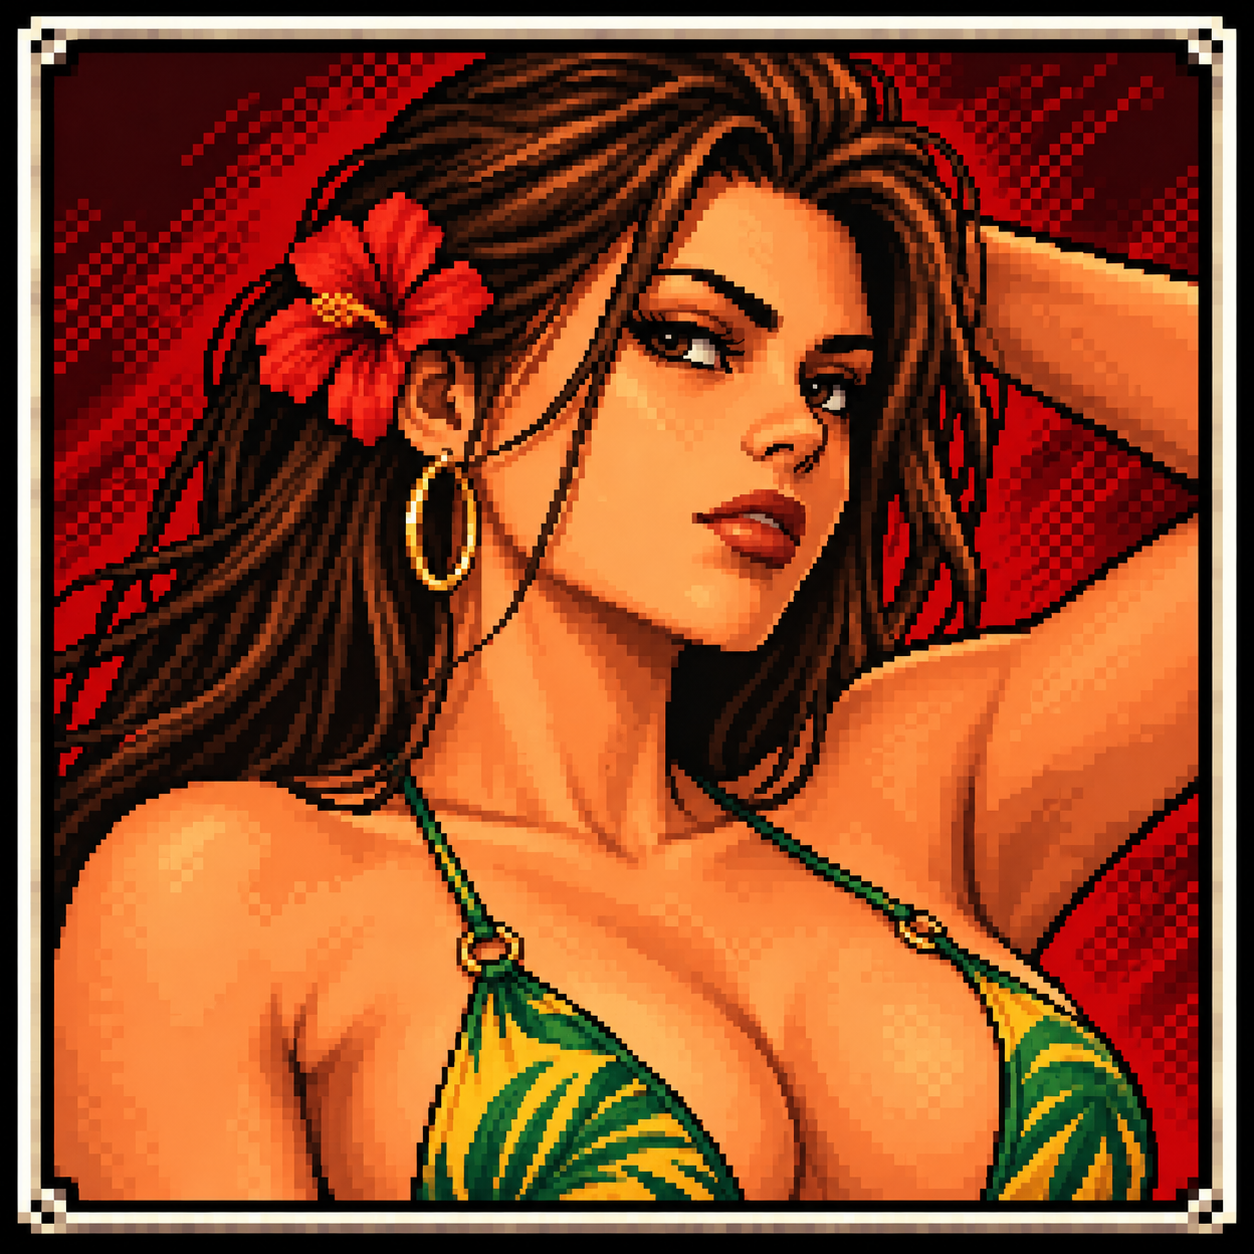
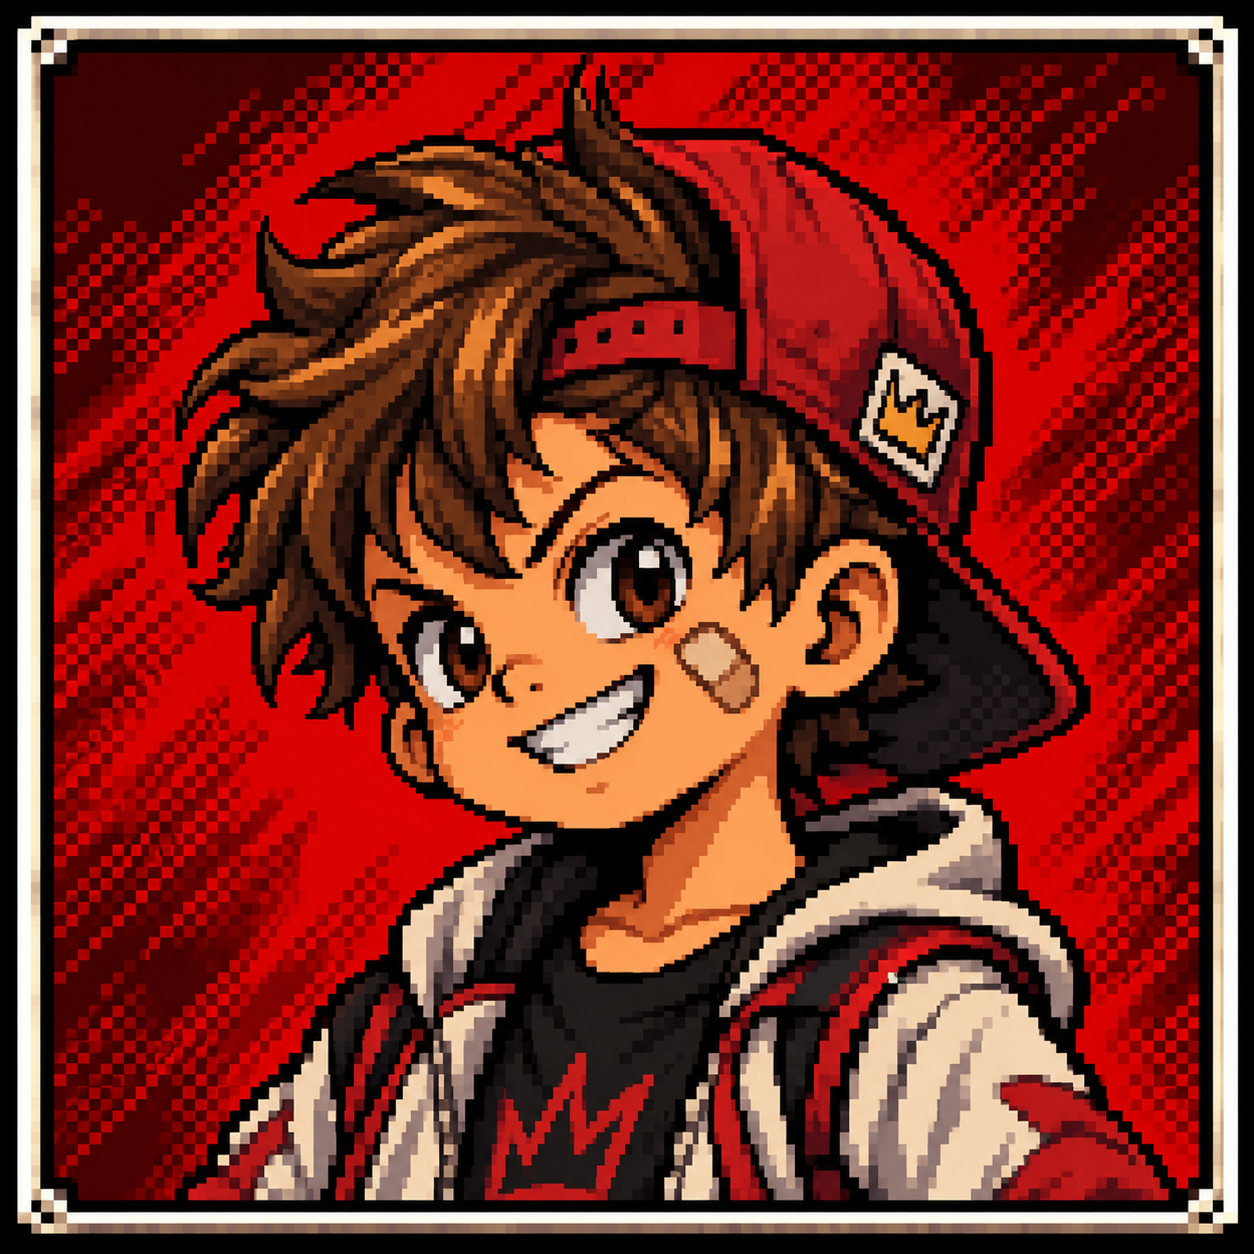
crash

diff --git a/src/components/game/BattleArena.jsx b/src/components/game/BattleArena.jsx
@@ -461,44 +461,7 @@ while (remainingActions.length > 0) {
     remainingActions
   );
 }
-  const { log: actionLog, events } = processAction(act, lang);
-
-  setLog((prev) => [...prev, ...actionLog]);
-
-  if (events.length) {
-    setPopups(events);
-  }
-
-  // Salva una fotografia reale dello stato dopo QUESTA mossa.
-  // Così le mosse successive non modificano retroattivamente
-  // gli HP mostrati per la mossa precedente.
-  setPlayerActive(
-    pActive.map((s) =>
-      s
-        ? {
-            ...s,
-            statMods: s.statMods ? { ...s.statMods } : s.statMods,
-          }
-        : s
-    )
-  );
-
-  setEnemyActive(
-    eActive.map((s) =>
-      s
-        ? {
-            ...s,
-            statMods: s.statMods ? { ...s.statMods } : s.statMods,
-          }
-        : s
-    )
-  );
-
-  await sleep(4000);
-
-  setPopups([]);
-  await sleep(200);
-}
+ 
     
 
     // End of turn
